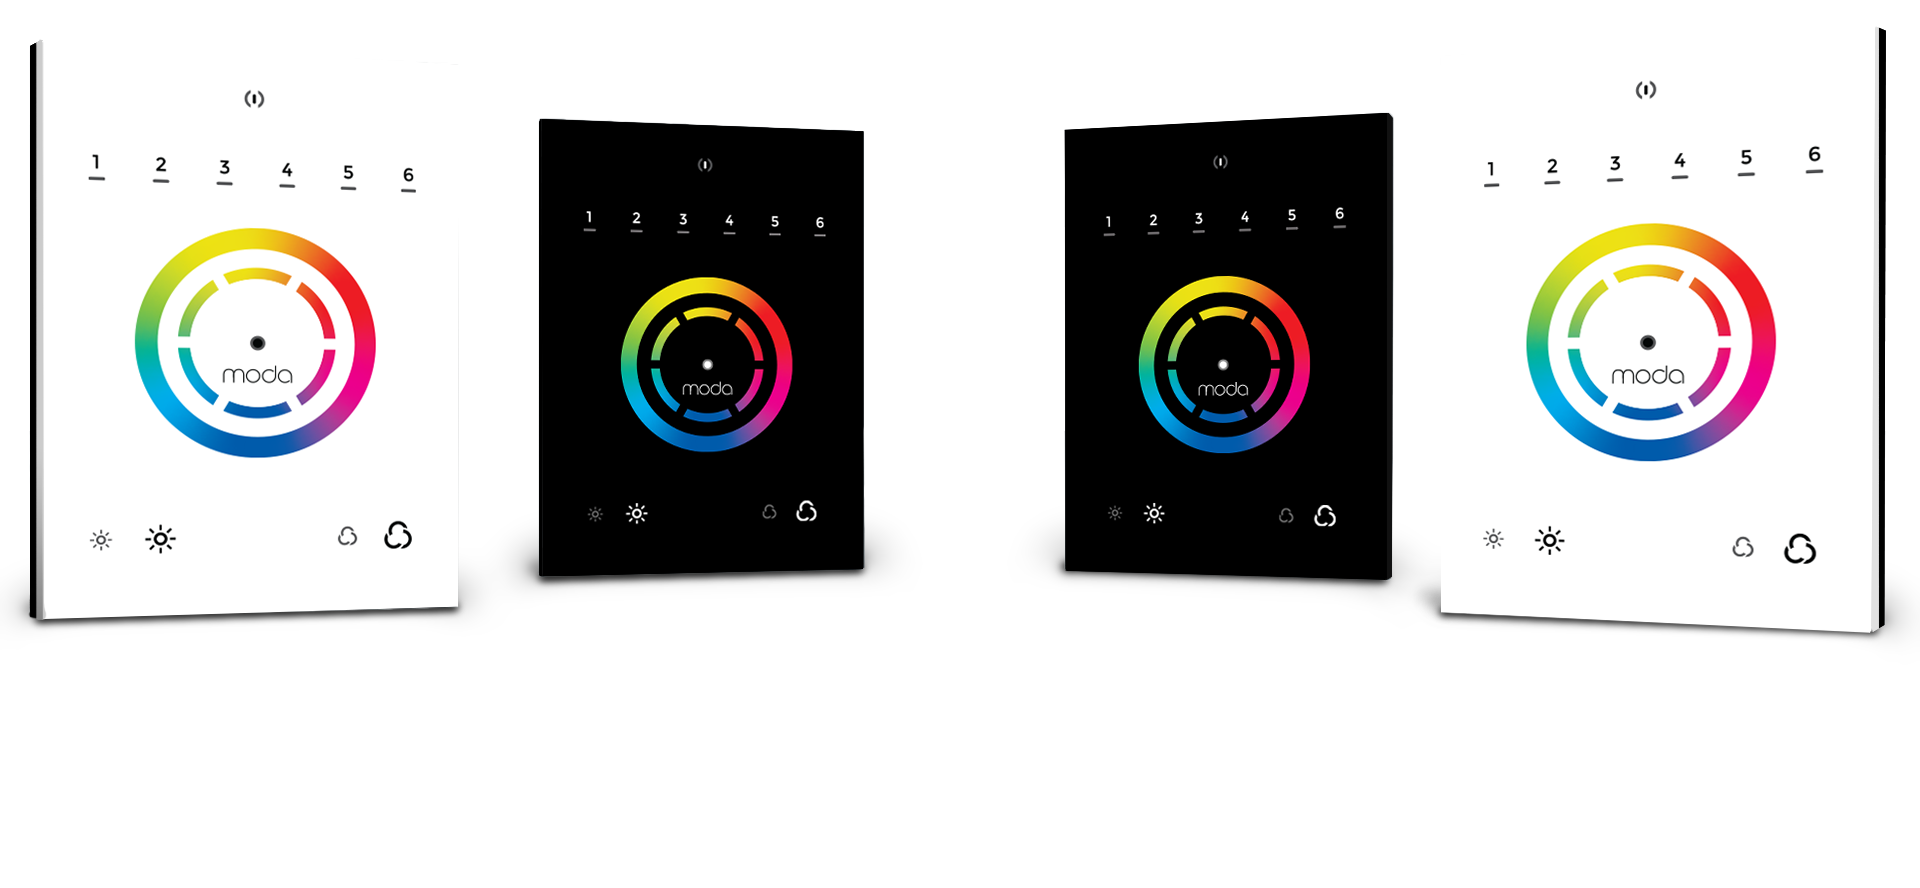
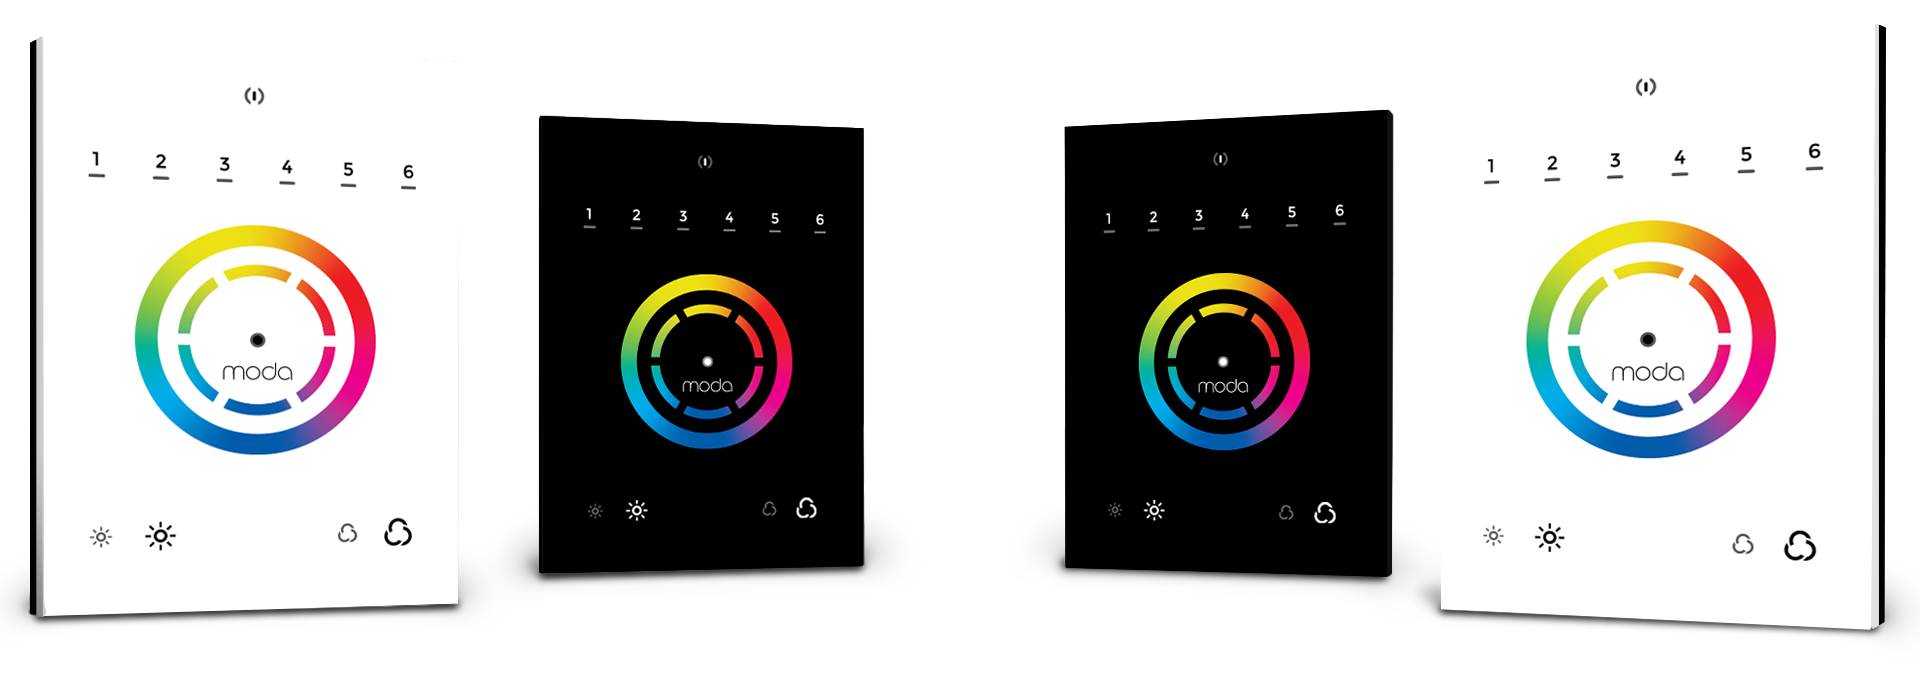
Slide1 Change

diff --git a/homepage.html b/homepage.html
@@ -52,7 +52,7 @@ $(document).ready(function(){
 	<li><span>
 		<h1 class="boldword1"> TOUCH</h1>
 		<img src="images/Controls/dmx-controllers-3.png" alt="" class="SSONECenterImg"><a href="#/controls"></a></img>
-		<h1 class="SSONEDescripText"><a href="#/controls" target="_blank" >Revolutionary</a></h1>
+		<h1 class="SSONEDescripText"><p></p>Revolutionary</h1>
 		<!-- <h1 class="SSONEDescripText" style="font-weight: 800; font-size: 50px; color:white; top: 70% !important;">Fuckin' Simple</h1>-->
 	</span></li>
 	

diff --git a/css/homepage.css b/css/homepage.css
@@ -151,10 +151,10 @@ body{
 
 .SSONECenterImg {
     width: 100%;
-    max-width: 1000px;
+    max-width: 800px;
     position: absolute;
     left: 50%;
-    top: 27%;
+    top: 30%;
     transform: translate(-50%,0);
 }
 
@@ -163,7 +163,7 @@ body{
     color: black;
     position: absolute;
     left: 50%;
-    top: 60%;
+    top: 65%;
     transform: translate(-50%,0);
 }
 

diff --git a/js/page-routing.js b/js/page-routing.js
@@ -7,7 +7,7 @@
     app.config(function ($routeProvider){
         $routeProvider
             .when('/',{
-                templateUrl:'homepage.html?1598943600'
+                templateUrl:'homepage.html?1599116400'
              //   templateUrl:'slide-test-1.html'
 
 			})
